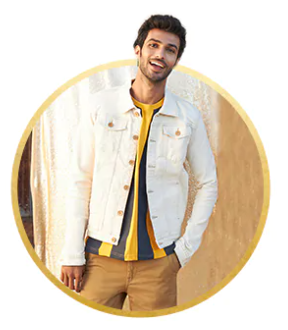
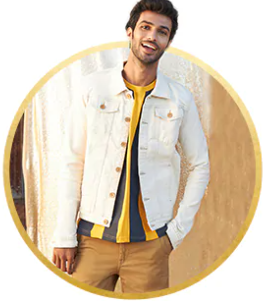
changed images of categories

diff --git a/index.php b/index.php
@@ -30,7 +30,7 @@
         <div class="col-sm-6 col-md-2">
             <a href="">
                 <figure class="figure">
-                    <img src="images/men wear.jpg" class="figure-img img-fluid  rounded-circle" alt="Men Wear">
+                    <img src="images/index_images/men/5.png" class="figure-img img-fluid  " alt="Men Wear" style="height:250px;">
                     <figcaption class="figure-caption text-centre d-flex justify-content-center font-weight-bold">Men Wear</figcaption>
                 </figure>
             </a>
@@ -38,7 +38,7 @@
         <div class="col-sm-6 col-md-2">
             <a href="">
                 <figure class="figure">
-                    <img src="images/men topwear.jpg" class="figure-img img-fluid  rounded-circle " alt="Men Topwear">
+                    <img src="images/index_images/men/1.png" class="figure-img img-fluid  " alt="Men Topwear" style="height:250px;">
                     <figcaption class="figure-caption  d-flex justify-content-center font-weight-bold">Men Topwear</figcaption>
                 </figure>
             </a>
@@ -46,7 +46,7 @@
         <div class="col-sm-6 col-md-2">
             <a href="">
                 <figure class="figure">
-                    <img src="images/men bottomwear.jpg" class="figure-img img-fluid  rounded-circle" alt="Men Bottomwear">
+                    <img src="images/index_images/men/2.png" class="figure-img img-fluid  " alt="Men Bottomwear" style="height:250px;">
                     <figcaption class="figure-caption  d-flex justify-content-center font-weight-bold">Men Bottomwear</figcaption>
                 </figure>
             </a>
@@ -54,7 +54,7 @@
         <div class="col-sm-6 col-md-2">
             <a href="">
                 <figure class="figure">
-                    <img src="images/women wear.jpg" class="figure-img img-fluid  rounded-circle" alt="Women Wear">
+                    <img src="images/index_images/women/5.png" class="figure-img img-fluid " alt="Women Wear" style="height:250px;">
                     <figcaption class="figure-caption  d-flex justify-content-center font-weight-bold">Women Wear</figcaption>
                 </figure>
             </a>
@@ -62,7 +62,7 @@
         <div class="col-sm-6 col-md-2">
             <a href="">
                 <figure class="figure">
-                    <img src="images/women topwear.jpg" class="figure-img img-fluid rounded-circle" alt="Women Topwear">
+                    <img src="images/index_images/women/2.png" class="figure-img img-fluid " alt="Women Topwear" style="height:250px;">
                     <figcaption class="figure-caption  d-flex justify-content-center font-weight-bold">Women Topwear</figcaption>
                 </figure>
             </a>
@@ -70,7 +70,7 @@
         <div class="col-sm-6 col-md-2">
             <a href="">
                 <figure class="figure">
-                    <img src="images/women bottomwear.jpg" class="figure-img img-fluid rounded-circle" alt="Women Bottomwear">
+                    <img src="images/index_images/women/3.png" class="figure-img img-fluid " alt="Women Bottomwear" style="height:250px;">
                     <figcaption class="figure-caption d-flex justify-content-center font-weight-bold">Women Bottomwear</figcaption>
                 </figure>
             </a>
